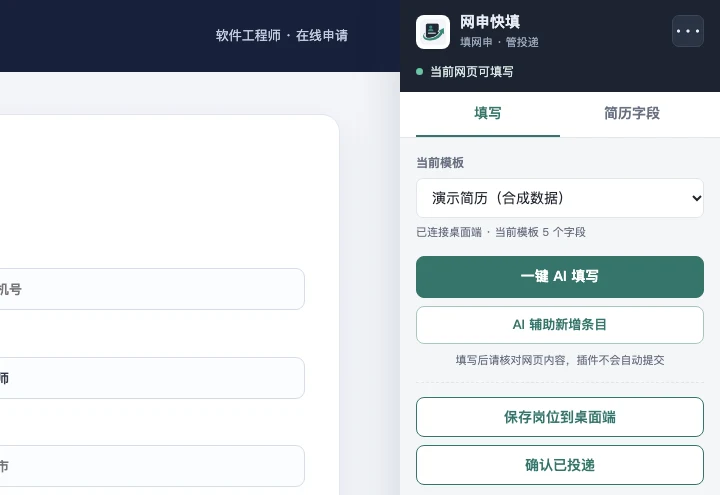
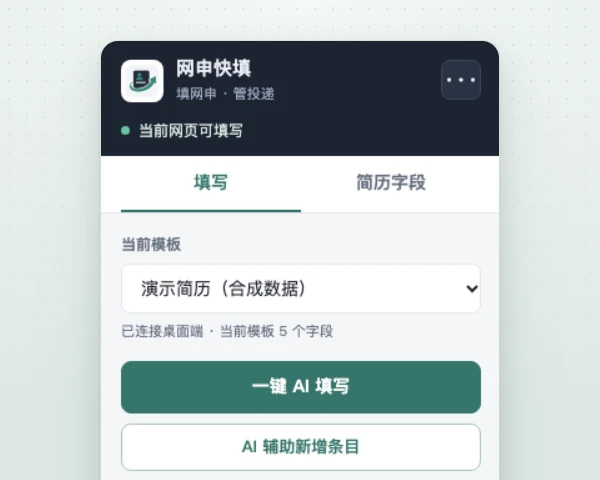
fix: 首页卡片截图铺满整格，重做缩略图
- 卡片截图原先按固定比例显示，卡片更高时下半截留白；改为绝对定位铺满
- 缩略图改为浅色背景上的悬浮侧边栏，桌面和窄屏各一张
- 标题和一句话简介只在标点、空格处断行，「系统要求」标签不再折行

diff --git a/src/styles/global.css b/src/styles/global.css
@@ -39,6 +39,8 @@ body {
 a { color: inherit; }
 /* 均分各行宽度，避免最后一行只剩一两个字 */
 h1, h2, h3, p, li, dd, figcaption, td { text-wrap: balance; }
+/* 标题和一句话简介只在标点、空格处换行，避免把「网申」这类词拆开 */
+h1, h2, h3, .tool-row__desc, .tool-head__desc { word-break: keep-all; overflow-wrap: anywhere; }
 :focus-visible { outline: 2px solid var(--ink); outline-offset: 2px; }
 
 /* ── header / footer ─────────────────────────── */
@@ -176,13 +178,16 @@ h1, h2, h3, p, li, dd, figcaption, td { text-wrap: balance; }
 @media (hover: hover) and (pointer: fine) {
   .tool-row:hover { border-color: rgba(0, 0, 0, 0.18); box-shadow: var(--shadow-hover); }
 }
+/* 图片绝对定位铺满整格，卡片再高也不会露出空白 */
 .tool-row__shot {
+  position: relative;
   display: block;
-  aspect-ratio: 16 / 11;
+  min-height: 240px;
   border-right: 1px solid var(--line);
-  background: var(--sunken);
+  background: #e7efeb;
+  overflow: hidden;
 }
-.tool-row__shot img { display: block; width: 100%; height: 100%; object-fit: cover; object-position: top; }
+.tool-row__shot img { position: absolute; inset: 0; width: 100%; height: 100%; object-fit: cover; object-position: center top; }
 .tool-row__body { display: flex; flex-direction: column; align-items: flex-start; padding: 24px 26px; min-width: 0; }
 .tool-row__name {
   display: flex;
@@ -248,7 +253,7 @@ h1, h2, h3, p, li, dd, figcaption, td { text-wrap: balance; }
 .tool-head__desc { margin: 0; color: var(--ink-2); font-size: 15px; max-width: 56ch; }
 .tool-meta { display: flex; flex-wrap: wrap; gap: 6px 28px; margin: 20px 0 0; font-size: 12.5px; }
 .tool-meta div { display: flex; gap: 8px; }
-.tool-meta dt { color: var(--ink-3); }
+.tool-meta dt { flex: none; color: var(--ink-3); white-space: nowrap; }
 .tool-meta dd { margin: 0; color: var(--ink-2); }
 .tool-head__actions { display: flex; flex-wrap: wrap; gap: 10px; margin-top: 22px; }
 
@@ -356,7 +361,7 @@ h1, h2, h3, p, li, dd, figcaption, td { text-wrap: balance; }
 
 @media (max-width: 720px) {
   .tool-row { grid-template-columns: 1fr; }
-  .tool-row__shot { aspect-ratio: 16 / 9; border-right: 0; border-bottom: 1px solid var(--line); }
+  .tool-row__shot { min-height: 0; aspect-ratio: 16 / 9; border-right: 0; border-bottom: 1px solid var(--line); }
   .tool-row__body { padding: 20px; }
 }
 

diff --git a/src/data/tools.ts b/src/data/tools.ts
@@ -18,7 +18,8 @@ export type Tool = {
     issues: string;
     privacy?: string;
   };
-  screenshots: { src: string; thumb: string; caption: string; width: number; height: number }[];
+  /** thumb 用于桌面端卡片（600×480），thumbWide 用于窄屏卡片（16:9） */
+  screenshots: { src: string; thumb: string; thumbWide: string; caption: string; width: number; height: number }[];
 };
 
 const repo = 'https://github.com/TshyGO/resume-form-assistant-plugin';
@@ -30,7 +31,8 @@ export const tools: Tool[] = [
   {
     slug: 'wangshen-kuaitian',
     name: '网申快填',
-    tagline: '在浏览器侧边栏一键 AI 填写网申，在桌面管理简历和投递记录。',
+    // 「AI」两侧用不换行空格，让简介只在逗号处断行
+    tagline: '在浏览器侧边栏一键\u00a0AI\u00a0填写网申，在桌面管理简历和投递记录。',
     platform: '桌面程序 + Chrome / Edge 插件',
     status: '现已开放',
     version: { label: `桌面 ${desktopVersion} · 插件 0.4.1`, releasedAt: '2026-09-28' },
@@ -48,6 +50,7 @@ export const tools: Tool[] = [
       {
         src: '/tools/wangshen-kuaitian/sidepanel.webp',
         thumb: '/tools/wangshen-kuaitian/thumb.webp',
+        thumbWide: '/tools/wangshen-kuaitian/thumb-wide.webp',
         caption: '网申页面右侧的侧边栏。截图中的简历为示例数据。',
         width: 1280,
         height: 800,
